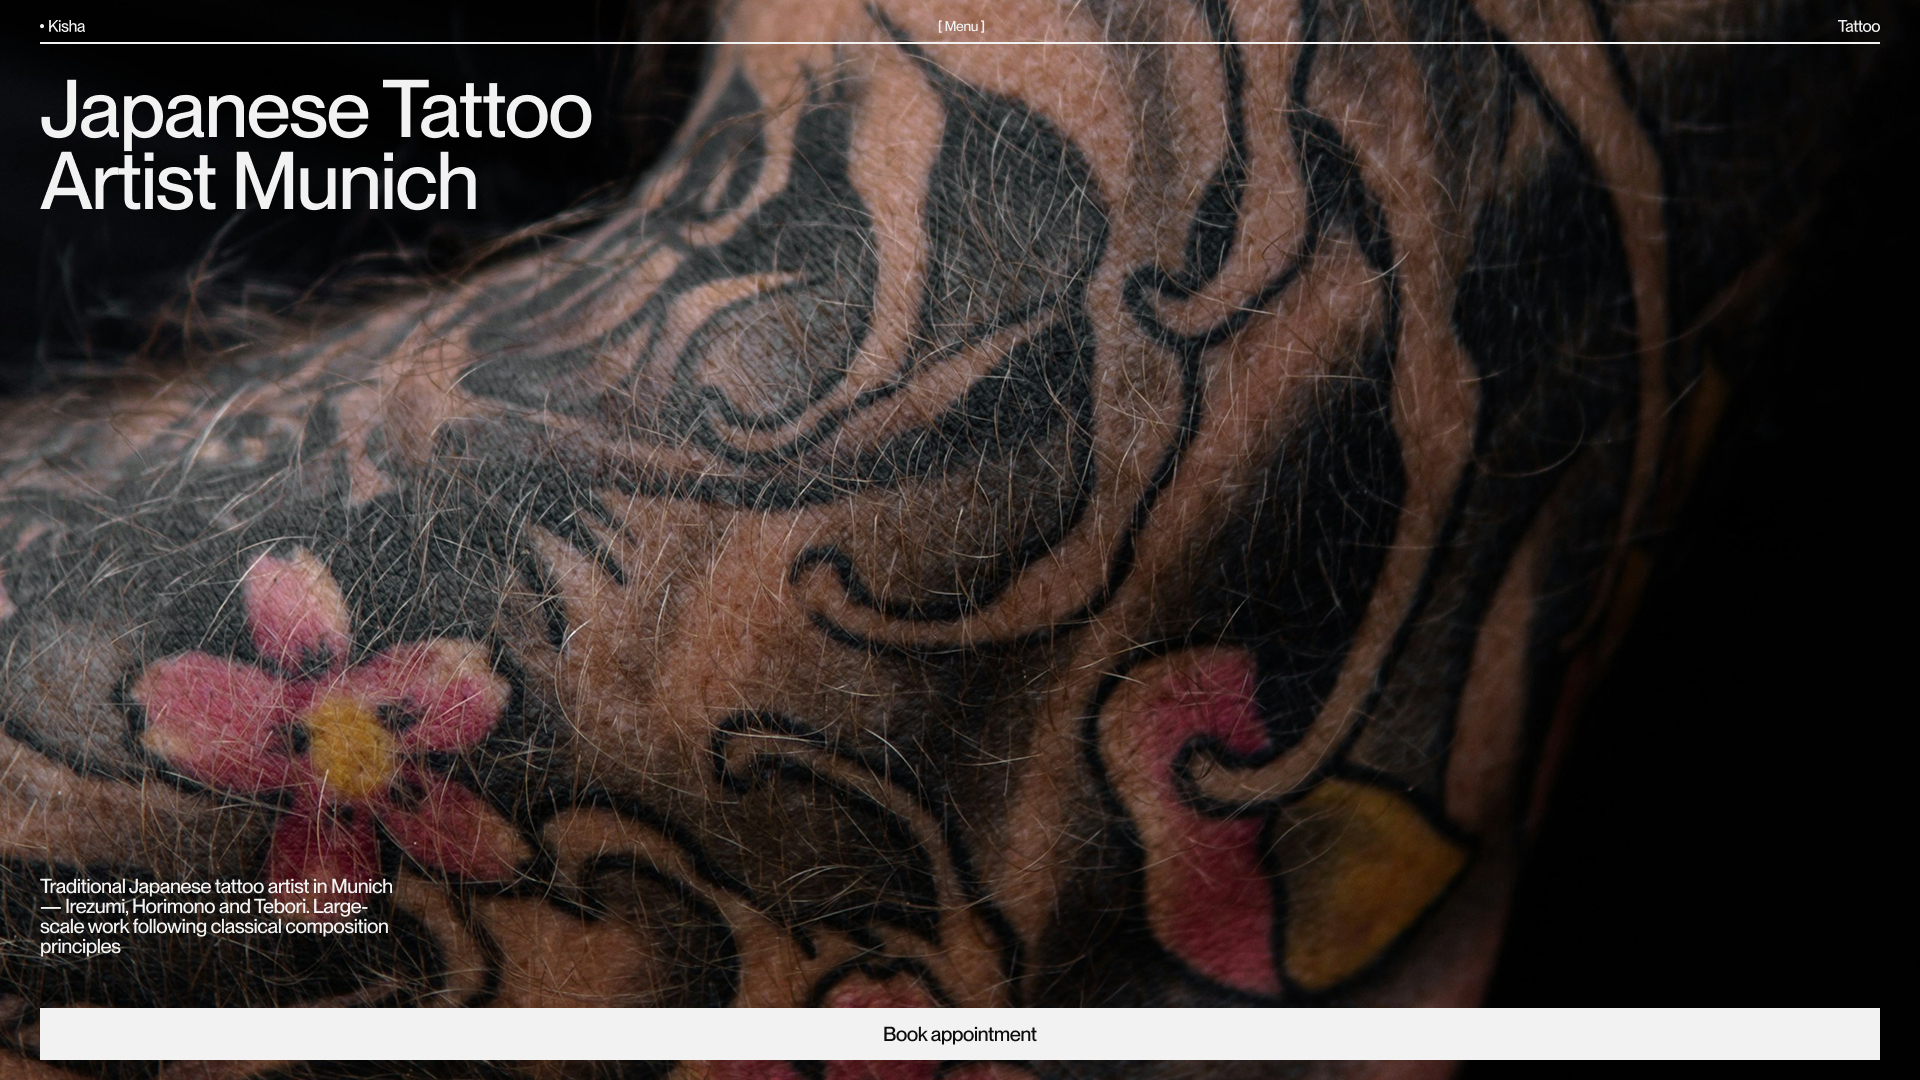
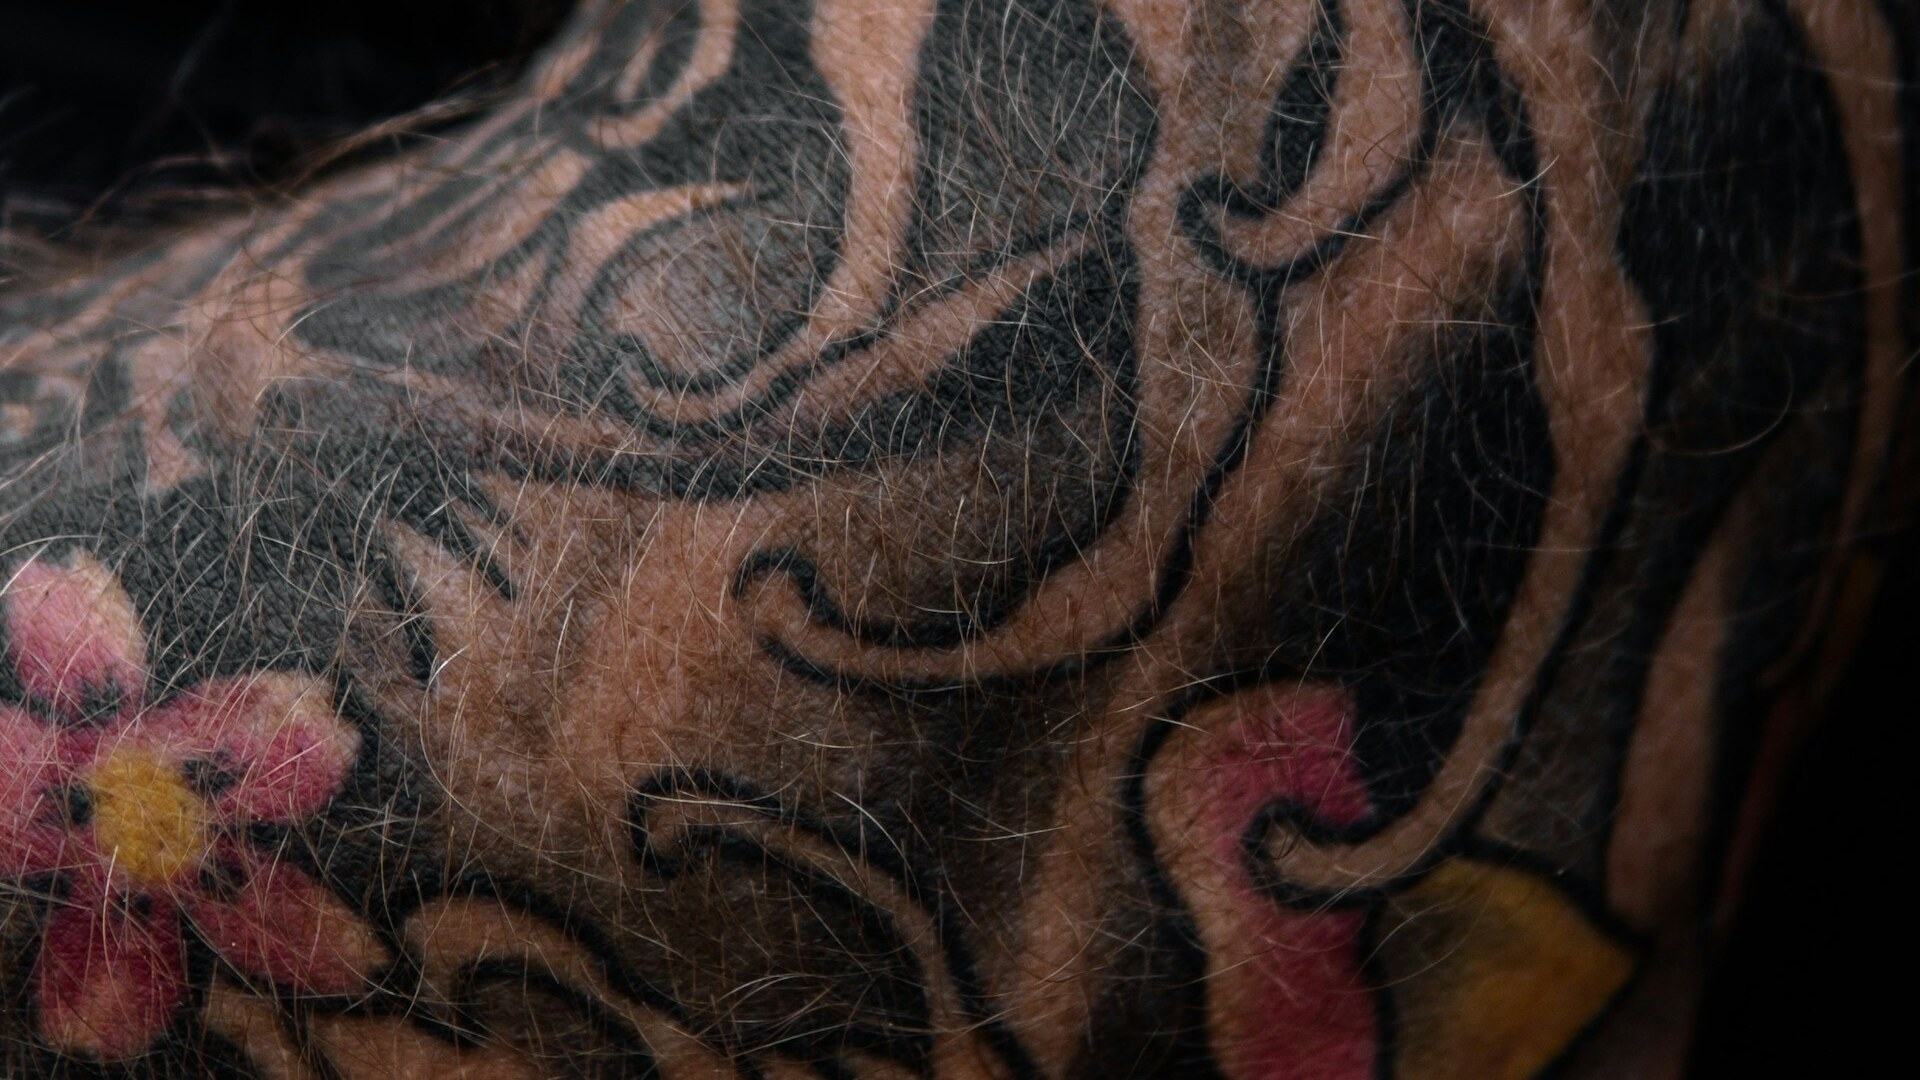
f v1

diff --git a/app/[locale]/grafik-tattoo-muenchen/page.tsx b/app/[locale]/grafik-tattoo-muenchen/page.tsx
@@ -61,9 +61,9 @@ export default async function GrafikTattooMuenchen({
 
         <h1 style={{
           position: 'absolute', top: '72px', left: 'var(--g-pad)',
-          width: 'clamp(18rem, 39.6vw, 571px)',
+          width: 'clamp(22rem, 50vw, 720px)',
           fontSize: 'var(--g-xl)', lineHeight: 'var(--g-lh-xl)',
-          color: '#F2F2F2', whiteSpace: 'pre-line', zIndex: 2,
+          color: '#F2F2F2', zIndex: 2,
         }}>
           {t('hero.h1')}
         </h1>
@@ -119,49 +119,26 @@ export default async function GrafikTattooMuenchen({
         <div style={{ paddingLeft: 'var(--g-pad)', paddingRight: 'var(--g-pad)' }}>
           <div style={{ display: 'flex', flexDirection: 'column', gap: '16px' }}>
             <div className="g-gallery-2col" style={{ display: 'grid', gridTemplateColumns: '1fr 1fr', gap: '16px' }}>
-              <div style={{ position: 'relative' }}>
-                <GWorkImage
-                  src="/images/work/middle-graphic-body-flower-tattoo.jpg"
-                  alt="Grafik Blumen Körper Tattoo München — KishaTattoo"
-                  sizes="(max-width: 767px) 100vw, 50vw"
-                  style={{ height: 'clamp(720px, 50vw, 820px)' }}
-                />
-                <div style={{ position: 'absolute', top: '16px', left: '16px', display: 'flex', gap: '8px' }}>
-                  {['Blackwork', 'München', 'Kisha'].map(tag => (
-                    <span key={tag} style={{ background: '#F2F2F2', color: '#0D0D0D', padding: '6px 10px', fontSize: 'var(--g-tag)', fontWeight: 500, lineHeight: 1 }}>{tag}</span>
-                  ))}
-                </div>
-              </div>
-              <div style={{ position: 'relative' }}>
-                <GWorkImage
-                  src="/images/work/middle-graphic-hand-with-flower-tattoo.jpg"
-                  alt="Grafik Hand mit Blumen Tattoo München — KishaTattoo"
-                  sizes="(max-width: 767px) 100vw, 50vw"
-                  style={{ height: 'clamp(720px, 50vw, 820px)' }}
-                />
-                <div style={{ position: 'absolute', top: '16px', left: '16px', display: 'flex', gap: '8px' }}>
-                  {['Blackwork', 'München', 'Kisha'].map(tag => (
-                    <span key={tag} style={{ background: '#F2F2F2', color: '#0D0D0D', padding: '6px 10px', fontSize: 'var(--g-tag)', fontWeight: 500, lineHeight: 1 }}>{tag}</span>
-                  ))}
-                </div>
-              </div>
+              <GWorkImage
+                src="/images/work/middle-graphic-body-flower-tattoo.jpg"
+                alt="Grafik Blumen Körper Tattoo München — KishaTattoo"
+                sizes="(max-width: 767px) 100vw, 50vw"
+                tags={['Blackwork', 'München', 'Kisha']}
+                style={{ height: 'clamp(720px, 50vw, 820px)' }}
+              />
+              <GWorkImage
+                src="/images/work/middle-graphic-hand-with-flower-tattoo.jpg"
+                alt="Grafik Hand mit Blumen Tattoo München — KishaTattoo"
+                sizes="(max-width: 767px) 100vw, 50vw"
+                tags={['Blackwork', 'München', 'Kisha']}
+                style={{ height: 'clamp(720px, 50vw, 820px)' }}
+              />
             </div>
             <div className="g-gallery-4col" style={{ display: 'grid', gridTemplateColumns: 'repeat(4, 1fr)', gap: '16px' }}>
-              {[
-                { src: '/images/work/4x4-bugs-tattoo-graphic.jpg', alt: 'Grafik Insekten Tattoo München — KishaTattoo Blackwork' },
-                { src: '/images/work/4x4-fogel-tattoo-graphic.jpg', alt: 'Grafik Vogel Tattoo München — KishaTattoo' },
-                { src: '/images/work/4x4-rabbit-tattoo-graphic.jpg', alt: 'Grafik Hase Tattoo München — KishaTattoo' },
-                { src: '/images/work/middle-graphic-legs-tattoo.jpg', alt: 'Grafik Beine Tattoo München — KishaTattoo' },
-              ].map(img => (
-                <div key={img.src} style={{ position: 'relative' }}>
-                  <GWorkImage src={img.src} alt={img.alt} sizes="25vw" style={{ height: 'clamp(356px, calc(8px + 24.17vw), 472px)' }} />
-                  <div style={{ position: 'absolute', top: '12px', left: '12px', display: 'flex', gap: '6px' }}>
-                    {['München', 'Kisha'].map(tag => (
-                      <span key={tag} style={{ background: '#F2F2F2', color: '#0D0D0D', padding: '5px 8px', fontSize: 'var(--g-tag)', fontWeight: 500, lineHeight: 1 }}>{tag}</span>
-                    ))}
-                  </div>
-                </div>
-              ))}
+              <GWorkImage src="/images/work/4x4-bugs-tattoo-graphic.jpg" alt="Grafik Insekten Tattoo München — KishaTattoo Blackwork" sizes="25vw" tags={['München', 'Kisha']} style={{ height: 'clamp(356px, calc(8px + 24.17vw), 472px)' }} />
+              <GWorkImage src="/images/work/4x4-fogel-tattoo-graphic.jpg" alt="Grafik Vogel Tattoo München — KishaTattoo" sizes="25vw" tags={['München', 'Kisha']} style={{ height: 'clamp(356px, calc(8px + 24.17vw), 472px)' }} />
+              <GWorkImage src="/images/work/4x4-rabbit-tattoo-graphic.jpg" alt="Grafik Hase Tattoo München — KishaTattoo" sizes="25vw" tags={['München', 'Kisha']} style={{ height: 'clamp(356px, calc(8px + 24.17vw), 472px)' }} />
+              <GWorkImage src="/images/work/middle-graphic-legs-tattoo.jpg" alt="Grafik Beine Tattoo München — KishaTattoo" sizes="25vw" tags={['München', 'Kisha']} style={{ height: 'clamp(356px, calc(8px + 24.17vw), 472px)' }} />
             </div>
           </div>
         </div>

diff --git a/app/[locale]/japanisches-tattoo-muenchen/page.tsx b/app/[locale]/japanisches-tattoo-muenchen/page.tsx
@@ -61,9 +61,9 @@ export default async function JapanischesTattooMuenchen({
 
         <h1 style={{
           position: 'absolute', top: '72px', left: 'var(--g-pad)',
-          width: 'clamp(18rem, 39.6vw, 571px)',
+          width: 'clamp(22rem, 50vw, 720px)',
           fontSize: 'var(--g-xl)', lineHeight: 'var(--g-lh-xl)',
-          color: '#F2F2F2', whiteSpace: 'pre-line', zIndex: 2,
+          color: '#F2F2F2', zIndex: 2,
         }}>
           {t('hero.h1')}
         </h1>
@@ -118,35 +118,18 @@ export default async function JapanischesTattooMuenchen({
 
         <div style={{ paddingLeft: 'var(--g-pad)', paddingRight: 'var(--g-pad)' }}>
           <div className="g-gallery-loc-row" style={{ display: 'grid', gridTemplateColumns: '1fr 1fr', gap: '16px' }}>
-            <div style={{ position: 'relative' }}>
               <GWorkImage
                 src="/images/work/4x4-japan-fox-tattoo-graphic.jpg"
                 alt="Japanisches Fuchs Tattoo München — Irezumi KishaTattoo"
                 sizes="(max-width: 767px) 100vw, 50vw"
+                tags={['Irezumi', 'München', 'Kisha']}
                 style={{ height: 'clamp(720px, 50vw, 960px)' }}
               />
-              <div style={{ position: 'absolute', top: '16px', left: '16px', display: 'flex', gap: '8px' }}>
-                {['Irezumi', 'München', 'Kisha'].map(tag => (
-                  <span key={tag} style={{ background: '#F2F2F2', color: '#0D0D0D', padding: '6px 10px', fontSize: 'var(--g-tag)', fontWeight: 500, lineHeight: 1 }}>{tag}</span>
-                ))}
-              </div>
-            </div>
             <div className="g-gallery-loc-right" style={{ display: 'grid', gridTemplateColumns: '1fr 1fr', gridTemplateRows: '1fr 1fr', gap: '16px', height: 'clamp(720px, 50vw, 960px)' }}>
-              {[
-                { src: '/images/work/4x4-rabbit-tattoo-graphic.jpg', alt: 'Japanisches Hase Tattoo München — KishaTattoo' },
-                { src: '/images/work/4x4-birds-tattoo-graphic.jpg', alt: 'Japanisches Vögel Tattoo München — KishaTattoo' },
-                { src: '/images/work/4x4-bugs-tattoo-graphic.jpg', alt: 'Japanisches Insekten Tattoo München — KishaTattoo' },
-                { src: '/images/work/4x4-sakura-tattoo.jpg', alt: 'Sakura Kirschblüten Tattoo München — KishaTattoo' },
-              ].map(img => (
-                <div key={img.src} style={{ position: 'relative' }}>
-                  <GWorkImage src={img.src} alt={img.alt} sizes="25vw" />
-                  <div style={{ position: 'absolute', top: '12px', left: '12px', display: 'flex', gap: '6px' }}>
-                    {['München', 'Kisha'].map(tag => (
-                      <span key={tag} style={{ background: '#F2F2F2', color: '#0D0D0D', padding: '5px 8px', fontSize: 'var(--g-tag)', fontWeight: 500, lineHeight: 1 }}>{tag}</span>
-                    ))}
-                  </div>
-                </div>
-              ))}
+              <GWorkImage src="/images/work/4x4-rabbit-tattoo-graphic.jpg" alt="Japanisches Hase Tattoo München — KishaTattoo" sizes="25vw" tags={['München', 'Kisha']} style={{ height: '100%' }} />
+              <GWorkImage src="/images/work/4x4-birds-tattoo-graphic.jpg" alt="Japanisches Vögel Tattoo München — KishaTattoo" sizes="25vw" tags={['München', 'Kisha']} style={{ height: '100%' }} />
+              <GWorkImage src="/images/work/4x4-bugs-tattoo-graphic.jpg" alt="Japanisches Insekten Tattoo München — KishaTattoo" sizes="25vw" tags={['München', 'Kisha']} style={{ height: '100%' }} />
+              <GWorkImage src="/images/work/4x4-sakura-tattoo.jpg" alt="Sakura Kirschblüten Tattoo München — KishaTattoo" sizes="25vw" tags={['München', 'Kisha']} style={{ height: '100%' }} />
             </div>
           </div>
         </div>

diff --git a/app/[locale]/fineline-tattoo-muenchen/page.tsx b/app/[locale]/fineline-tattoo-muenchen/page.tsx
@@ -61,9 +61,9 @@ export default async function FinelineTattooMuenchen({
 
         <h1 style={{
           position: 'absolute', top: '72px', left: 'var(--g-pad)',
-          width: 'clamp(18rem, 39.6vw, 571px)',
+          width: 'clamp(22rem, 50vw, 720px)',
           fontSize: 'var(--g-xl)', lineHeight: 'var(--g-lh-xl)',
-          color: '#F2F2F2', whiteSpace: 'pre-line', zIndex: 2,
+          color: '#F2F2F2', zIndex: 2,
         }}>
           {t('hero.h1')}
         </h1>
@@ -118,32 +118,20 @@ export default async function FinelineTattooMuenchen({
 
         <div style={{ paddingLeft: 'var(--g-pad)', paddingRight: 'var(--g-pad)' }}>
           <div className="g-gallery-2col" style={{ display: 'grid', gridTemplateColumns: '1fr 1fr', gap: '16px' }}>
-            <div style={{ position: 'relative' }}>
               <GWorkImage
                 src="/images/work/4x4-dog-tattoo-fineline.jpg"
                 alt="Fineline Hund Tattoo München — KishaTattoo Fine Line"
                 sizes="(max-width: 767px) 100vw, 50vw"
+                tags={['Fineline', 'München', 'Kisha']}
                 style={{ height: 'clamp(480px, calc(8px + 32vw), 640px)' }}
               />
-              <div style={{ position: 'absolute', top: '16px', left: '16px', display: 'flex', gap: '8px' }}>
-                {['Fineline', 'München', 'Kisha'].map(tag => (
-                  <span key={tag} style={{ background: '#F2F2F2', color: '#0D0D0D', padding: '6px 10px', fontSize: 'var(--g-tag)', fontWeight: 500, lineHeight: 1 }}>{tag}</span>
-                ))}
-              </div>
-            </div>
-            <div style={{ position: 'relative' }}>
               <GWorkImage
                 src="/images/work/4x4-owl-tattoo-fineline.jpg"
                 alt="Fineline Eule Tattoo München — KishaTattoo Linework"
                 sizes="(max-width: 767px) 100vw, 50vw"
+                tags={['Fineline', 'München', 'Kisha']}
                 style={{ height: 'clamp(480px, calc(8px + 32vw), 640px)' }}
               />
-              <div style={{ position: 'absolute', top: '16px', left: '16px', display: 'flex', gap: '8px' }}>
-                {['Fineline', 'München', 'Kisha'].map(tag => (
-                  <span key={tag} style={{ background: '#F2F2F2', color: '#0D0D0D', padding: '6px 10px', fontSize: 'var(--g-tag)', fontWeight: 500, lineHeight: 1 }}>{tag}</span>
-                ))}
-              </div>
-            </div>
           </div>
         </div>
 
